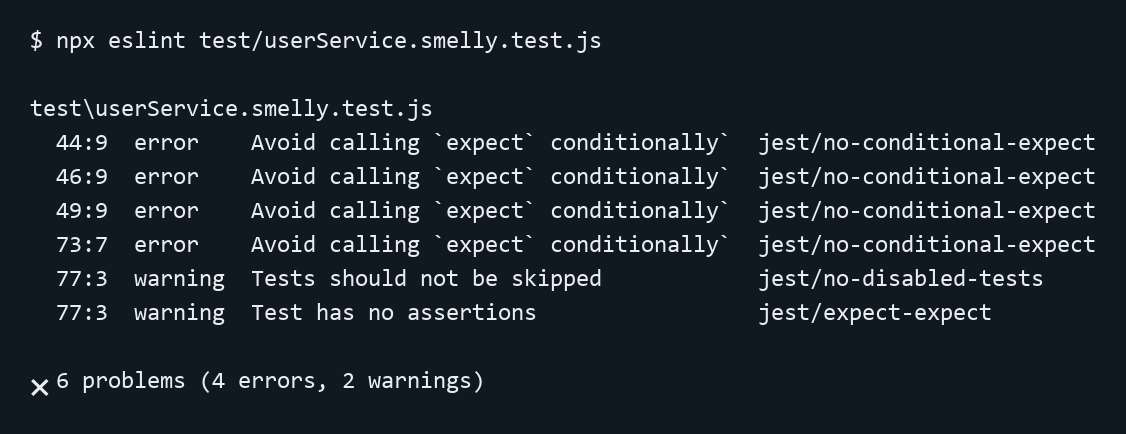
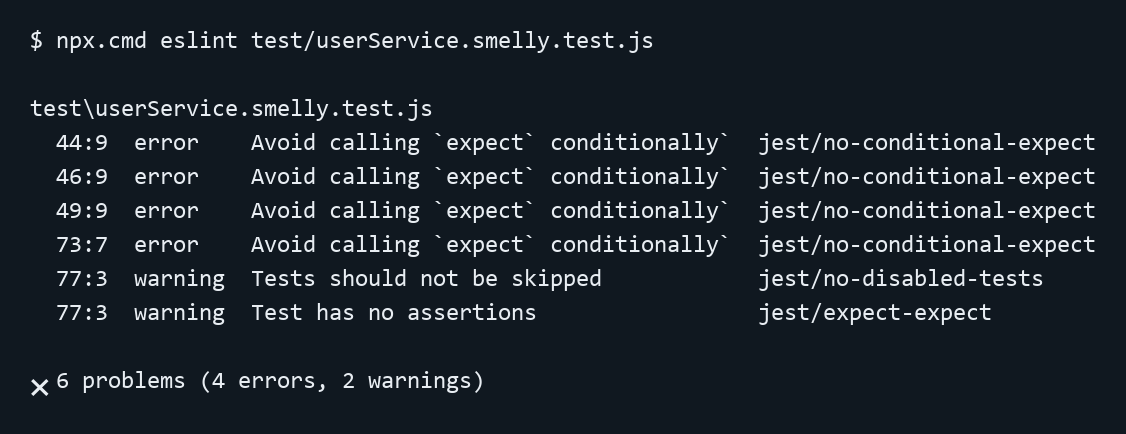
Atualiza evidencia do ESLint no relatorio

Changed region(s): [[0.0933, 0.0599, 0.5906, 0.1198]]

diff --git a/docs/gerar_relatorio.py b/docs/gerar_relatorio.py
@@ -70,7 +70,7 @@ styles.add(ParagraphStyle(
 def render_lint_evidence():
     """Representa o log real como imagem; não simula uma captura histórica."""
     log = (ROOT / 'eslint-inicial.txt').read_text(encoding='utf-8').strip()
-    command = '$ npx eslint test/userService.smelly.test.js'
+    command = '$ npx.cmd eslint test/userService.smelly.test.js'
     lines = [command, '', *log.splitlines()]
     font = ImageFont.truetype(str(FONT_DIR / 'consola.ttf'), 24)
     symbol_font = ImageFont.truetype(str(FONT_DIR / 'seguisym.ttf'), 24)

diff --git a/docs/Relatorio_Test_Smells.md b/docs/Relatorio_Test_Smells.md
@@ -148,8 +148,8 @@ a versão 8.57.1 foi fixada para atender ao modelo solicitado, sem silenciar reg
 
 ![Figura 1 — Reprodução visual da saída real do ESLint sobre a suíte original preservada.](eslint-inicial.png)
 
-A figura representa a saída textual registrada integralmente. O diagnóstico
-inicial pôde ser reproduzido porque o arquivo original permaneceu intacto.
+A figura reproduz a saída real de `npx.cmd eslint test/userService.smelly.test.js`.
+O diagnóstico inicial pôde ser reproduzido porque o original permaneceu intacto.
 A imagem foi renderizada a partir do log; não constitui captura histórica
 da primeira execução. O caminho do arquivo é apresentado relativamente à raiz
 do projeto.

diff --git a/docs/VALIDACAO.md b/docs/VALIDACAO.md
@@ -78,8 +78,12 @@ regras. Essa adaptação foi autorizada no pedido da atividade.
 O diagnóstico original foi reproduzido com:
 
 ```sh
-npx eslint test/userService.smelly.test.js
+npx.cmd eslint test/userService.smelly.test.js
 ```
+
+No PowerShell, `npx.cmd` executa a mesma ferramenta sem carregar `npx.ps1`;
+nenhuma política de execução do Windows foi alterada. A coleta e as
+validações também podem usar `npm.cmd`, pelo mesmo motivo.
 
 `eslint-inicial.txt` contém essa saída real. O prefixo privado do diretório
 foi omitido e os logs tiveram apenas espaços finais e linhas vazias

diff --git a/README.md b/README.md
@@ -10,6 +10,9 @@ e verifica comportamentos públicos.
 
 Ambiente validado: Node.js 24.19.0 e npm 11.17.0.
 
+No PowerShell com scripts desabilitados, use `npm.cmd` e `npx.cmd` nos
+comandos abaixo, sem alterar a política de execução do Windows.
+
 ```sh
 npm install
 npm test
